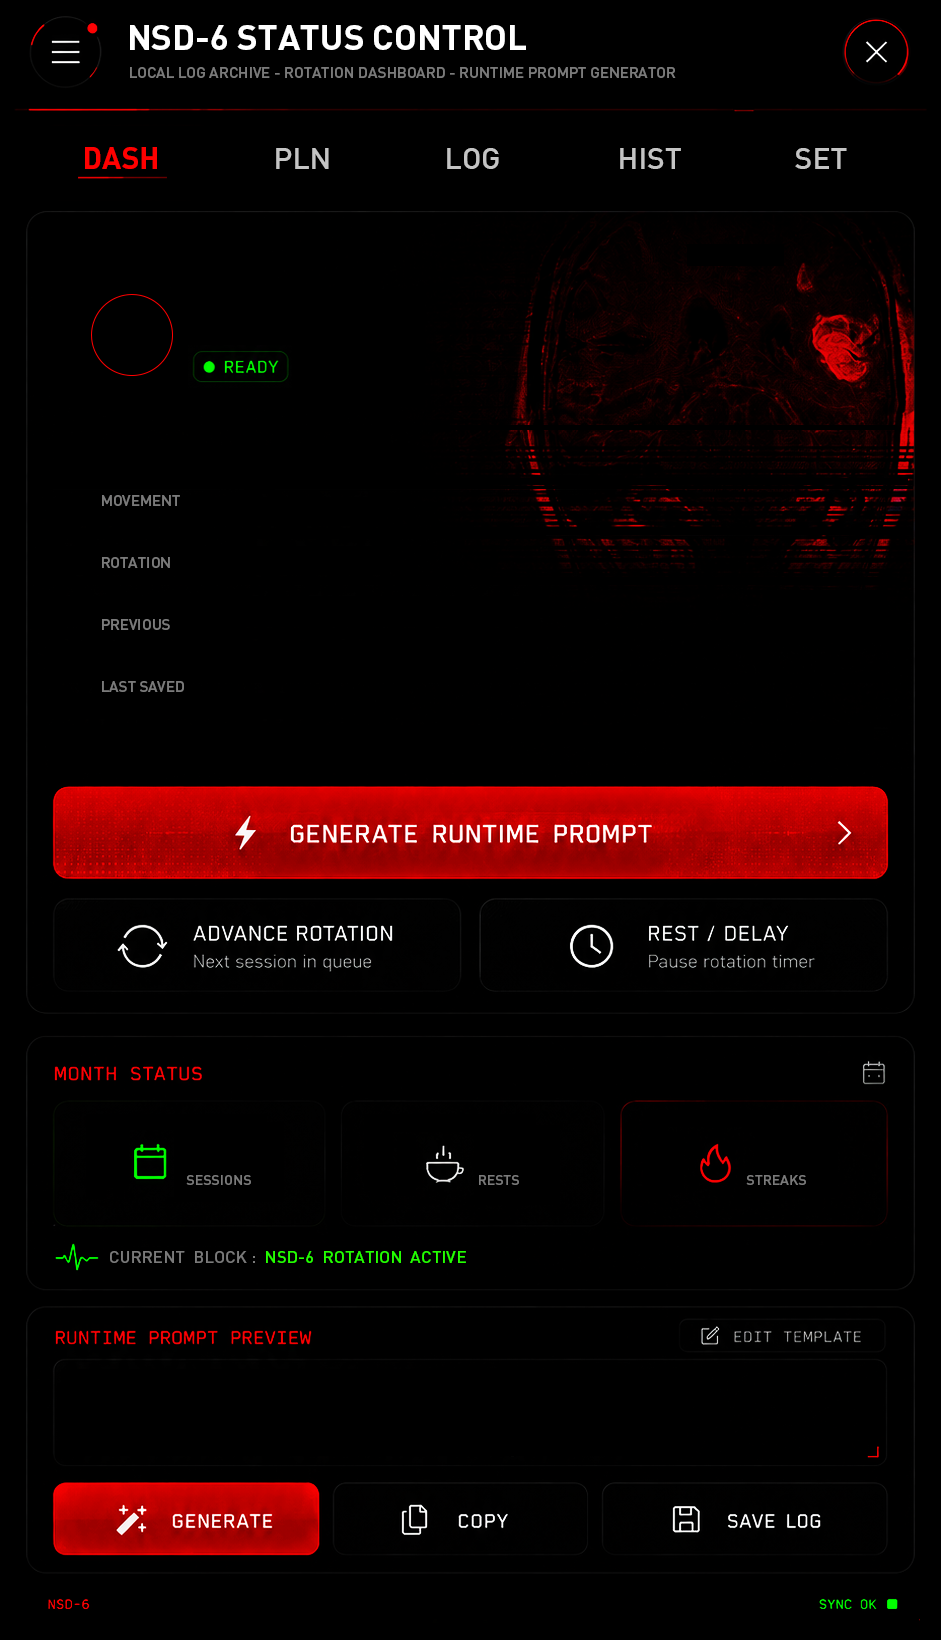
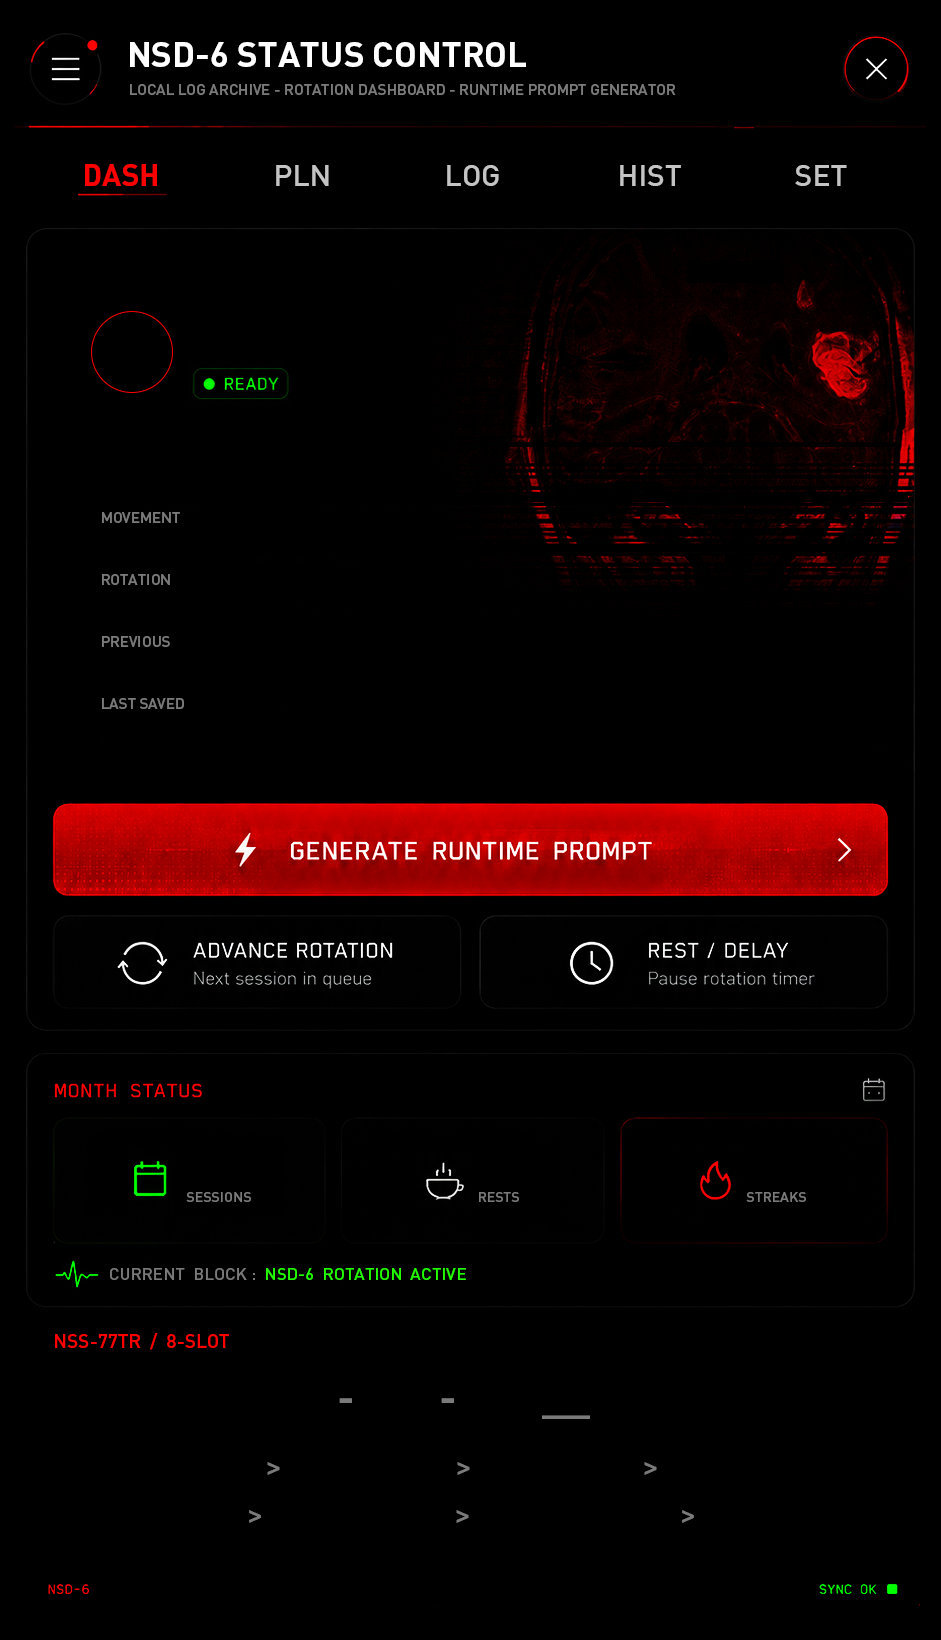
V4.14.3

diff --git a/sw.js b/sw.js
@@ -1,4 +1,4 @@
-const CACHE="nsd6-v041213-icon";
+const CACHE="nsd6-v04143";
 const ASSETS = ["./","./index.html?v=4.10","./BASE.png","./manifest.webmanifest","./sw.js"];
 self.addEventListener("install", event => { self.skipWaiting(); event.waitUntil(caches.open(CACHE).then(cache => cache.addAll(ASSETS))); });
 self.addEventListener("activate", event => { event.waitUntil(caches.keys().then(keys => Promise.all(keys.filter(k => k !== CACHE).map(k => caches.delete(k)))).then(() => self.clients.claim())); });

diff --git a/README.md b/README.md
@@ -140,3 +140,42 @@ Patch note: BASE.png regenerated from uploaded PSD source; ovBuild overlay retai
 - Added apple-touch-icon / PNG favicon links to index.html.
 - Updated manifest.webmanifest icons.
 - Keeps v4.12.13 fixed index behavior.
+
+
+## v4.13 indicator setup
+- Replaced BASE.png with uploaded BASE-SETUP New Type PSD composite.
+- Added 8-slot-ref.png from uploaded 8-SLOT REF PSD for visual reference.
+- Removed dashboard prompt preview and inserted 8-slot indicator board overlay in the same area.
+- Added renderIndicator() based on projectedWheel(); current slot glows red, next slot green, remaining slots dim.
+- Existing main overlay top coordinates were intentionally not adjusted.
+
+## v4.13R indicator ref
+- Removed bottom Generate / Copy / Save hotspots.
+- Reworked 8-slot indicator to text-symbol style only: no buttons, no cards, no arbitrary background image.
+- Indicator state uses only size/color/brightness: active red, next green, remaining dim.
+- Existing dynamic overlay top coordinates remain untouched.
+
+## v4.13R2 indicator ref-position
+- Indicator now uses the same text placement structure as the uploaded 8-SLOT REF:
+  label row, PU-PL-CX__NR flow row, and two movement rows.
+- No custom cards/buttons/backgrounds were added.
+- Bottom three hotspots remain removed.
+
+## v4.13R5 static guide fix
+- Rebuilt BASE.png from exact PSD: BASE-SETUP__8SLOT.psd using imagemagick.
+- Keeps separators/arrows/underscores in BASE image and overlays only dynamic text.
+
+## V4.14.1
+- Hotfix: seedData JSON is embedded without re.sub backslash interpretation, preventing JSON.parse startup failure.
+- Integrated 2026-05-30 JSON backup.
+- Static Position restored as line-specific static / Adv. L-sit 6s.
+
+## V4.14.2
+- Locked 8-slot lower indicator layout to the user's final index(4).html coordinates.
+- Only active colors/text content change dynamically.
+- Keeps V4.14.1 JSON integration and static position logic.
+
+## V4.14.3
+- Fixed 8-slot indicator output order.
+- indMove1~8 now map to fixed slotIndex 0~7 positions.
+- Current slot changes color only; text positions no longer rotate from selected slot.